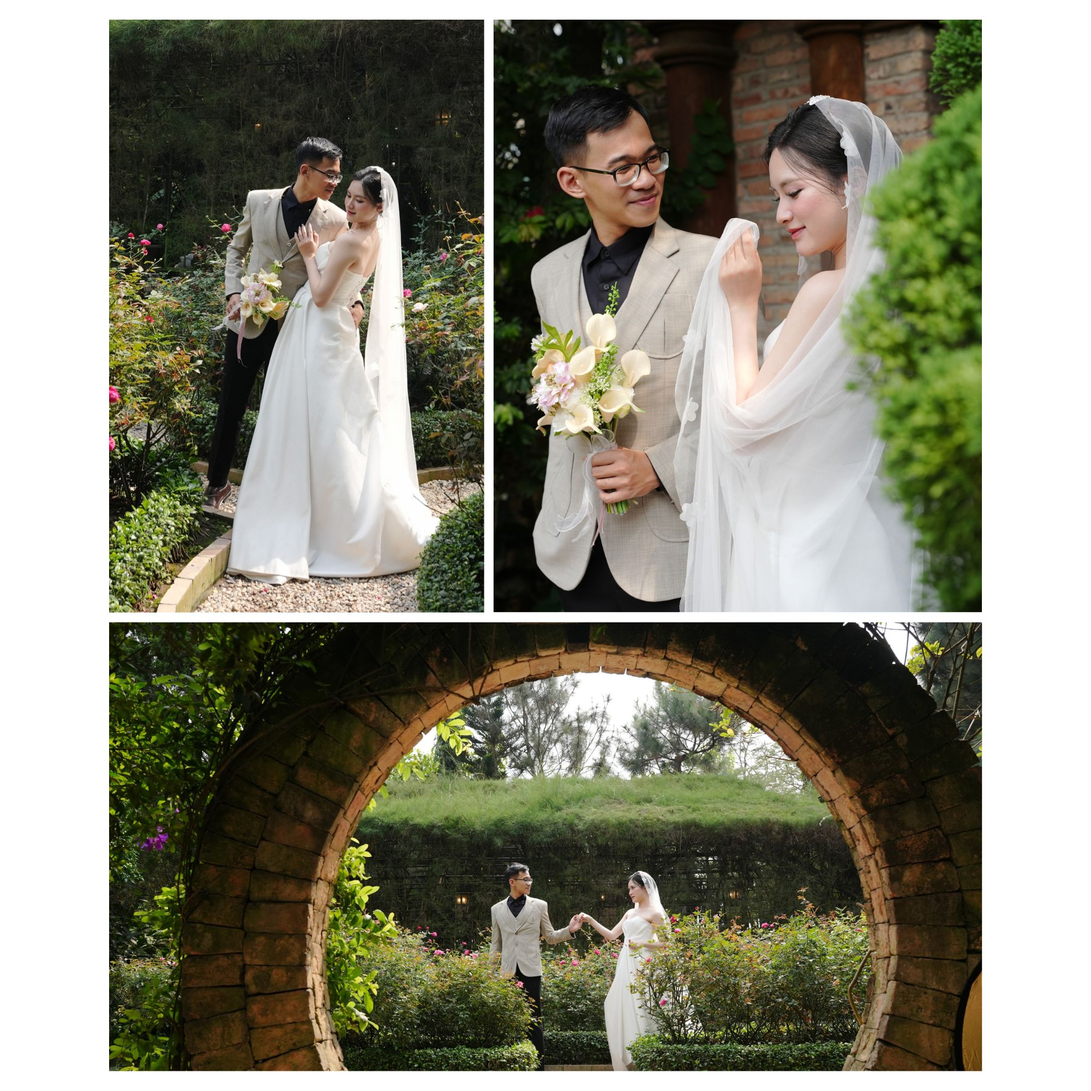
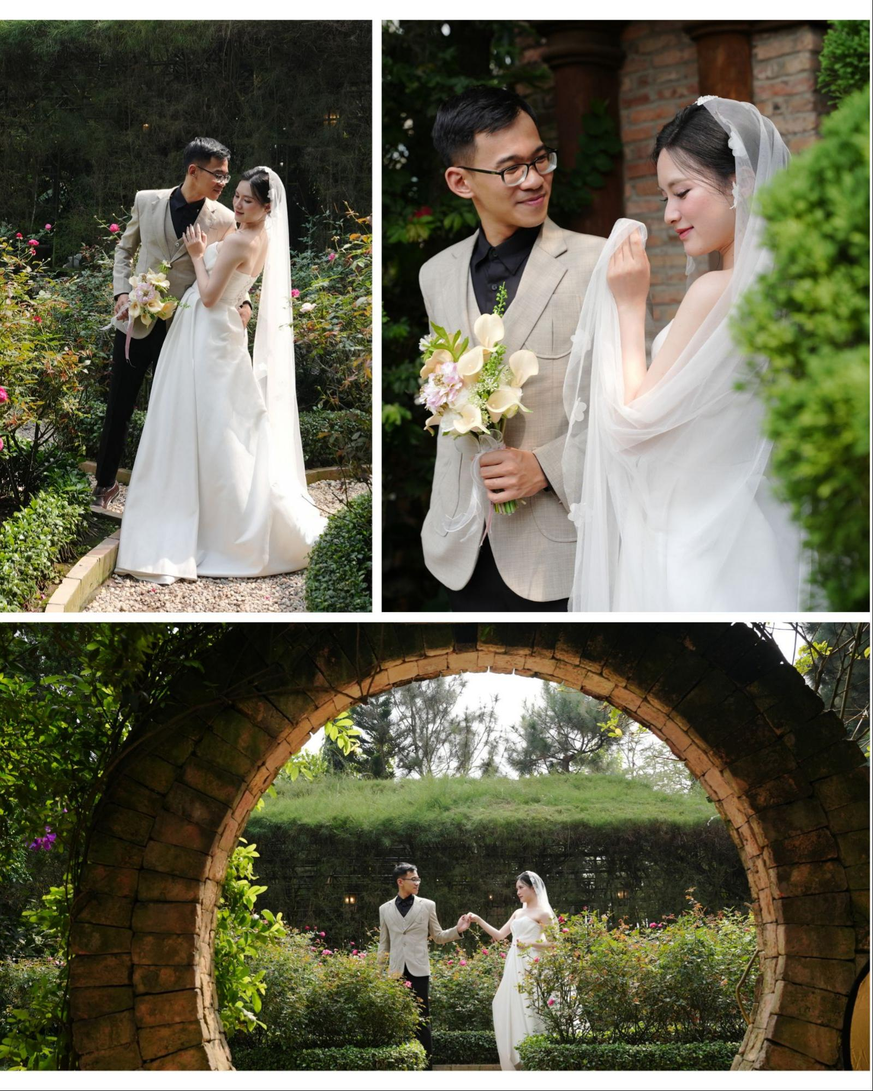
update

diff --git a/index.html b/index.html
@@ -1515,7 +1515,7 @@
             grid-template-columns: 1fr;
             gap: 10px;
         }
-        
+
 
         /* Animation */
         @keyframes fadeIn {
@@ -2804,7 +2804,7 @@
             <div class="story-hero">
                 <img src="images/SHO05837.JPG" alt="">
             </div>
-            <div class="story-hero" ">
+            <div class="story-hero">
                     <img src=" images/story-4.jpg" alt="Right love | Right reason | Right for you">
 
             </div>
@@ -2856,6 +2856,17 @@
         </div>
     </section>
 
+    <!-- Music Player Section -->
+    <section class="music-section">
+        <div class="music-player" id="musicPlayer">
+            <iframe width="560" height="315"
+                src="https://www.youtube.com/embed/ZalqX-zmTTw?si=VWQUj97GVYISoMHU&amp;start=10"
+                title="YouTube video player" frameborder="0"
+                allow="accelerometer; autoplay; clipboard-write; encrypted-media; gyroscope; picture-in-picture; web-share"
+                referrerpolicy="strict-origin-when-cross-origin" allowfullscreen></iframe>
+        </div>
+    </section>
+
     <!-- Footer -->
     <footer class="footer">
         <div class="heart">♥</div>
@@ -2865,10 +2876,6 @@
             Thank you for being part of our special day
         </p>
     </footer>
-
-    <iframe scrolling="no" width=600 height=180 src=https://zingmp3.vn/embed/song/Z7FDDIOI?start=true frameborder="0"
-        allowfullscreen="true" allow="autoplay">
-    </iframe>
     </div>
 
     <script>
@@ -2892,12 +2899,10 @@
                 musicText.textContent = 'Tắt nhạc';
                 musicToggle.classList.remove('muted');
 
-                // Reload iframe để bắt đầu phát nhạc lại
-                const currentSrc = musicFrame.src;
-                musicFrame.src = '';
-                setTimeout(() => {
-                    musicFrame.src = currentSrc;
-                }, 100);
+                // Reload YouTube iframe
+                if (musicFrame) {
+                    musicFrame.src = 'https://www.youtube.com/embed/ZalqX-zmTTw?si=P05yv6PVWJHJNWRX&controls=0&start=10&autoplay=1&loop=1';
+                }
 
                 isMusicMuted = false;
             } else {
@@ -2907,8 +2912,8 @@
                 musicText.textContent = 'Bật nhạc';
                 musicToggle.classList.add('muted');
 
-                // Remove iframe src để dừng nhạc
-                musicFrame.src = '';
+                // Remove iframe src
+                if (musicFrame) musicFrame.src = '';
 
                 isMusicMuted = true;
             }
@@ -2921,10 +2926,10 @@
             const musicPlayer = document.getElementById('musicPlayer');
 
             if (musicFrame) {
-                console.log('Current src:', musicFrame.src);
-                // Force reload
-                musicFrame.src = 'https://zingmp3.vn/embed/song/ZW6DIA67?start=true&autoplay=true';
-                console.log('🎵 Music reloaded with autoplay');
+                console.log('Current iframe src:', musicFrame.src);
+                // Force reload with autoplay
+                musicFrame.src = 'https://www.youtube.com/embed/ZalqX-zmTTw?si=P05yv6PVWJHJNWRX&controls=0&start=10&autoplay=1&loop=1';
+                console.log('🎵 YouTube music reloaded with autoplay');
             }
 
             if (musicPlayer) {
@@ -2978,8 +2983,11 @@
                     // Tự động load và phát nhạc khi user click lần đầu
                     console.log('🎵 Loading music on first user interaction');
                     const musicFrame = document.getElementById('musicFrame');
-                    if (musicFrame && musicFrame.src === '') {
-                        musicFrame.src = 'https://zingmp3.vn/embed/song/ZW6DIA67?start=true';
+                    const audioPlayer = document.getElementById('audioPlayer');
+
+                    if (musicFrame) {
+                        musicFrame.src = 'https://www.youtube.com/embed/ZalqX-zmTTw?si=P05yv6PVWJHJNWRX&controls=0&start=10&autoplay=1&loop=1';
+                        console.log('🎵 YouTube iframe loaded on first click');
                     }
                 }
             }, { once: true });
